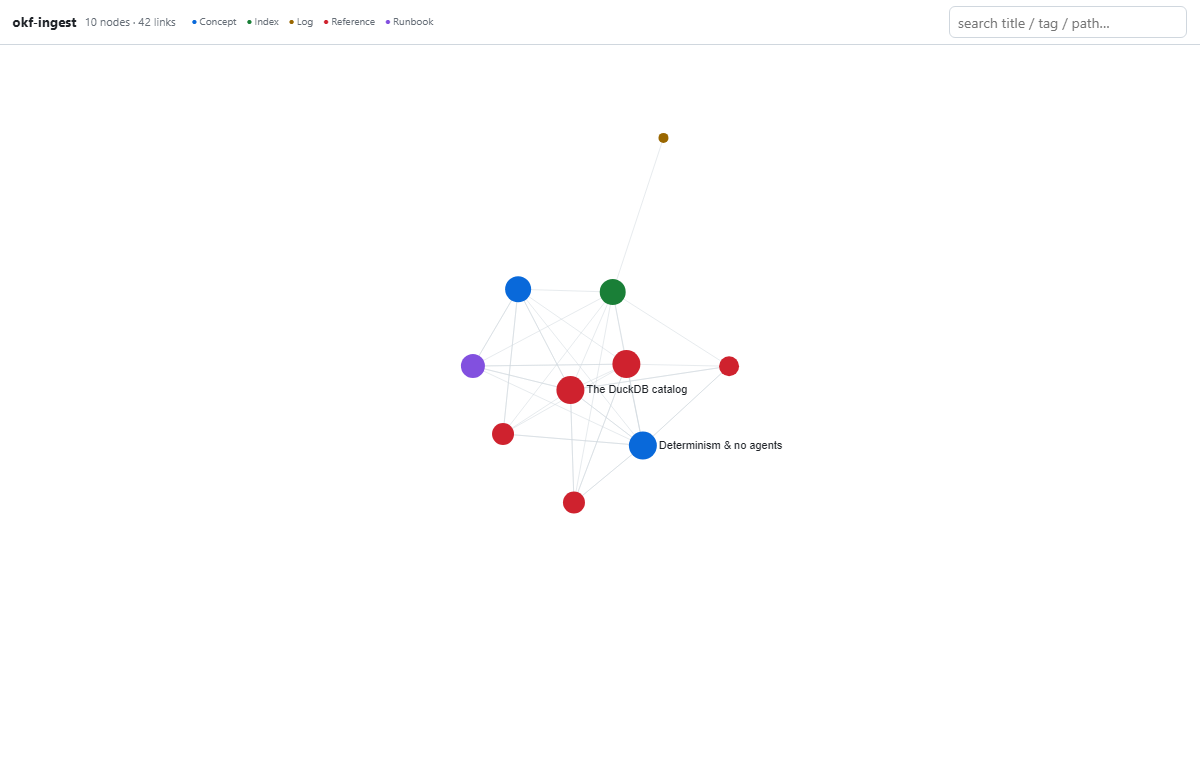
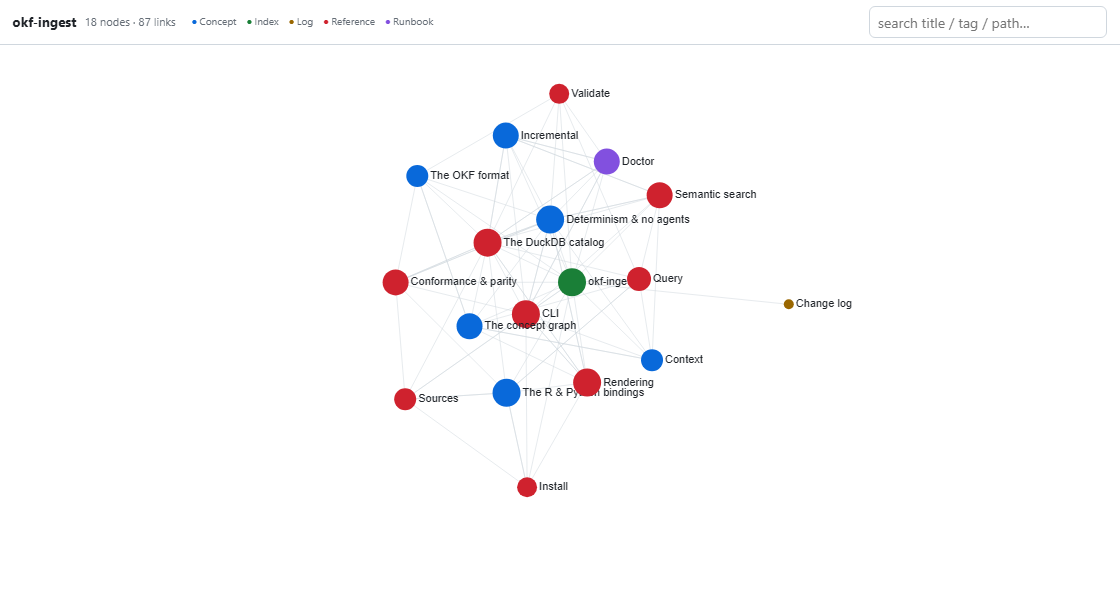
0.5.1: richer dogfood graph — label small graphs + expand self-bundle
The README hero (okf graph of our own docs) was underwhelming at 10 sparse,
mostly-unlabeled nodes. Two fixes:

- Graph view: label every node when the graph is small (<=40 nodes), in both
  bindings. Small/real bundles now show all titles instead of only high-degree
  hubs — a genuine UX win, not just for the screenshot.
- Dogfood self-bundle: add 8 real concept pages (okf-spec, bindings, sources,
  validate, links/graph, query, context, install), bringing it to 18
  interconnected nodes / 87 links. Still conformant + doctor 100/100; regenerated
  docs/graph.png as a dense, fully-labeled hero.

No API change; graph HTML template tweak only. Packages stay code-only (the
bundle is repo-only). If PyPI 0.5.0 wasn't uploaded yet, upload 0.5.1 instead.

Claude-Session: https://claude.ai/code/session_017SkcA5yAd3y9skpnC7uQSD

diff --git a/py/okf/graph.py b/py/okf/graph.py
@@ -207,7 +207,7 @@ function draw(){cx.setTransform(1,0,0,1,0,0);cx.clearRect(0,0,W,H);cx.translate(
  cx.globalAlpha=1;G.nodes.forEach(n=>{let r=4+Math.min(n.deg,10);
   cx.globalAlpha=(match&&!n._m)?0.12:1;cx.beginPath();cx.arc(n.x,n.y,r,0,7);cx.fillStyle=n._col;cx.fill();
   if(n===hot){cx.lineWidth=2/view.k;cx.strokeStyle="#1f2328";cx.stroke();}
-  if(view.k>1.4||n.deg>=12||n._m||n===hot){cx.fillStyle="#1f2328";cx.font=(11/view.k)+"px sans-serif";cx.fillText(n.title,n.x+r+2,n.y+3);}});cx.globalAlpha=1;}
+  if(view.k>1.4||n.deg>=12||G.nodes.length<=40||n._m||n===hot){cx.fillStyle="#1f2328";cx.font=(11/view.k)+"px sans-serif";cx.fillText(n.title,n.x+r+2,n.y+3);}});cx.globalAlpha=1;}
 function loop(){tick();draw();requestAnimationFrame(loop);}loop();
 // world<-screen helpers (canvas sits 44px below the top bar)
 function wx(cxp){return (cxp-view.x)/view.k;}function wy(cyp){return (cyp-44-view.y)/view.k;}

diff --git a/docs/okf-bundle/bindings.md b/docs/okf-bundle/bindings.md
@@ -1,0 +1,21 @@
+---
+type: Concept
+title: The R & Python bindings
+description: Two thin, native, mirrored bindings held byte-identical by the conformance corpus.
+timestamp: 2026-06-23T00:00:00Z
+tags: [r, python, bindings]
+---
+
+# The R & Python bindings
+
+okf-ingest ships as two idiomatic packages — `r/okf` (R) and `py/okf` (Python) —
+that mirror each other function-for-function. Neither is a wrapper around the
+other; both are native, thin (~few hundred lines), and write the same
+[catalog](catalog.md).
+
+They are kept honest by [conformance & parity](conformance.md): a shared corpus
+asserts byte-identical output, so you can [ingest](sources.md) in one and
+[query](query.md) in the other. Mirrored constants (the schema, the
+[render](render.md) templates) are kept in sync by hand, flagged in code
+comments. This dual-binding design is why okf-ingest exists — there was no R or
+Python OKF tooling. See [install](install.md).

diff --git a/docs/okf-bundle/install.md b/docs/okf-bundle/install.md
@@ -1,0 +1,20 @@
+---
+type: Reference
+title: Install
+description: Get okf-ingest from PyPI (Python) or R-universe (R), or run from a clone.
+timestamp: 2026-06-23T00:00:00Z
+tags: [install, pypi, r-universe]
+---
+
+# Install
+
+- **Python:** `pip install okf-ingest` (adds the `okf` command + importable
+  package). Optional extras: `okf-ingest[html]` for [rendering](render.md).
+- **R:** `install.packages("okf")` from R-universe, or `R CMD INSTALL r/okf`
+  from a clone.
+- **Dev / no install:** `source("r/okf/R/okf.R")` in R, or
+  `PYTHONPATH=py python -m okf …` for the Python [CLI](cli.md).
+
+Both [bindings](bindings.md) are intentionally light on dependencies (yaml +
+DuckDB at the core; an embedder and a markdown engine are optional). Once
+installed, point it at any [source](sources.md).

diff --git a/docs/okf-bundle/links.md b/docs/okf-bundle/links.md
@@ -1,0 +1,20 @@
+---
+type: Concept
+title: The concept graph
+description: Markdown links become resolved/broken edges — surfaced as backlinks, impact, clusters, and the graph view.
+timestamp: 2026-06-23T00:00:00Z
+tags: [graph, links, backlinks]
+---
+
+# The concept graph
+
+Every markdown link is resolved against the bundle and stored in `okf_link` as a
+resolved or broken edge (consumers must tolerate broken links per
+[the spec](okf-spec.md)). That graph is the heart of the [catalog](catalog.md).
+
+Deterministic helpers surface it: `backlinks` ("linked from"), `impact`
+(inbound/outbound/transitive ripple of a concept), and `clusters` (communities
+via reproducible label propagation). The same graph drives [rendering](render.md)
+— the interactive graph view and Mermaid export — and the [context](context.md)
+primitive. No relationships are inferred ([determinism](determinism.md)); only
+the links you wrote.

diff --git a/docs/okf-bundle/okf-spec.md b/docs/okf-bundle/okf-spec.md
@@ -1,0 +1,20 @@
+---
+type: Concept
+title: The OKF format
+description: What an Open Knowledge Format bundle is — markdown + frontmatter, one concept per file, links as the graph.
+timestamp: 2026-06-23T00:00:00Z
+tags: [okf, spec]
+---
+
+# The OKF format
+
+Open Knowledge Format (Google Cloud, v0.1) is a directory of markdown files with
+YAML frontmatter: **one concept per file**, markdown links forming an explicit
+graph. The only required field is `type`; `title`/`description`/`timestamp`/
+`tags` are recommended. `index.md` and `log.md` are reserved (the map and the
+history).
+
+okf-ingest consumes that format — it reads exactly this structure into [the
+catalog](catalog.md) and never adds to it ([determinism](determinism.md)). What
+counts as [conformant](conformance.md) follows the spec permissively, and the
+links become [the concept graph](links.md).

diff --git a/docs/okf-bundle/query.md b/docs/okf-bundle/query.md
@@ -1,0 +1,20 @@
+---
+type: Reference
+title: Query
+description: Read the catalog with SQL or the built-in helpers — concepts, links, findings, substring search.
+timestamp: 2026-06-23T00:00:00Z
+tags: [query, sql, duckdb]
+---
+
+# Query
+
+Because the bundle lives in a [DuckDB catalog](catalog.md), you query it with
+plain SQL — or the bare `duckdb` CLI, or from R/Python via the
+[bindings](bindings.md). `okf query` wraps the common reads: `--sql`,
+`--search <term>` (substring over bodies), `--concepts`, `--links`, `--findings`,
+with `--json` output.
+
+This is the "programmatic access" half of why okf-ingest exists: ask questions
+of the [graph](links.md) and [validation findings](validate.md) from code or CI.
+For meaning-based retrieval instead of substring/SQL, see [semantic
+search](search.md); to hand a slice to an LLM, see [context](context.md).

diff --git a/docs/okf-bundle/sources.md b/docs/okf-bundle/sources.md
@@ -1,0 +1,20 @@
+---
+type: Reference
+title: Sources
+description: A bundle source can be a local directory, a git URL, or a tar/zip archive (local or remote).
+timestamp: 2026-06-23T00:00:00Z
+tags: [sources, git, fetch]
+---
+
+# Sources
+
+`ingest` (and the read-only verbs) accept a `<source>` that is a local
+**directory**, a **git URL** (github/gitlab/bitbucket, `.git`, or `git@`), or a
+**tar/zip** archive (local path or `http(s)` URL). Remote sources are fetched to
+a temp dir and cleaned up automatically; `--subdir` selects a bundle within a
+repo/archive and `--branch` picks a git ref.
+
+Whatever the source, the result is the same [catalog](catalog.md) — fetching is
+just transport. Hidden directories (`.git`, `.github`) are skipped identically by
+both [bindings](bindings.md), a guarantee locked by [conformance](conformance.md).
+See the [CLI](cli.md) for flags.

diff --git a/docs/okf-bundle/context.md b/docs/okf-bundle/context.md
@@ -1,0 +1,19 @@
+---
+type: Concept
+title: Context
+description: The index-first, link-following primitive — assemble a bundle slice for an LLM to read directly, no embeddings.
+timestamp: 2026-06-23T00:00:00Z
+tags: [context, llm, graph]
+---
+
+# Context
+
+`okf context` is the faithful OKF / "LLM wiki" consume operation: hand an agent
+`index.md` plus a concept and its link-neighborhood, assembled into one markdown
+blob to read directly. It walks the [concept graph](links.md) you already built
+to a depth, capped to a token budget — **no embeddings, no vector search**.
+
+This is okf's answer to "let an LLM use my knowledge": [compose with the
+agent](determinism.md), don't embed one. For small, curated bundles it beats
+[semantic search](search.md) — the explicit links cost nothing and the author's
+structure is better than fuzzy matches. See the [CLI](cli.md).

diff --git a/docs/okf-bundle/validate.md b/docs/okf-bundle/validate.md
@@ -1,0 +1,19 @@
+---
+type: Reference
+title: Validate
+description: The conformance lint — hard rules (errors) and permissive findings (warnings), with CI exit codes.
+timestamp: 2026-06-23T00:00:00Z
+tags: [validate, conformance, lint]
+---
+
+# Validate
+
+`okf validate` checks a bundle against [the OKF spec](okf-spec.md): the hard rule
+(parseable frontmatter with a non-empty `type`) produces **errors**; everything
+else — missing recommended fields, broken links, orphans, non-ISO timestamps —
+produces **warnings**, never a rejection.
+
+Exit codes make it CI-friendly: `0` conformant, `1` on errors (or warnings under
+`--strict`), `2` bad invocation. The findings are stored in [the
+catalog](catalog.md) and reused by [doctor](doctor.md), which adds a health score
+and maintenance checks on top. All of it is [deterministic](determinism.md).

diff --git a/docs/okf-bundle/index.md b/docs/okf-bundle/index.md
@@ -15,9 +15,17 @@ conformant bundle you can ingest, render (`okf html` / `okf graph`), and check
 ## Concepts
 
 - [Determinism & no agents](determinism.md) — the core principle
+- [The OKF format](okf-spec.md) — what a bundle is
 - [The DuckDB catalog](catalog.md) — the interop contract
 - [Conformance & parity](conformance.md) — how R and Python stay identical
+- [The R & Python bindings](bindings.md) — thin, native, mirrored
+- [Sources](sources.md) — dir, git, tar/zip
+- [Validate](validate.md) — the conformance lint
+- [The concept graph](links.md) — links, backlinks, impact
+- [Query](query.md) — SQL and helpers over the catalog
+- [Context](context.md) — the index-first LLM-wiki primitive
 - [CLI](cli.md) — the command surface
+- [Install](install.md) — PyPI, R-universe, dev
 - [Rendering](render.md) — HTML site, interactive graph, Mermaid
 - [Semantic search](search.md) — the optional embed/rag layer
 - [Incremental](incremental.md) — re-ingest/re-embed only what changed

diff --git a/docs/okf-bundle/log.md b/docs/okf-bundle/log.md
@@ -9,5 +9,7 @@ tags: [log]
 # Change log
 
 - **2026-06-23** Creation — okf-ingest documents itself as an OKF bundle
-  (dogfood). Concepts: determinism, catalog, conformance, cli, render, search,
-  incremental, doctor. Rendered by `okf html`/`okf graph`; gated by `okf doctor`.
+  (dogfood): determinism, the OKF format, catalog, conformance, bindings,
+  sources, validate, the concept graph, query, context, cli, install, render,
+  search, incremental, doctor. Rendered by `okf html`/`okf graph` (the README
+  hero); gated by `okf doctor` (100/100) in CI.